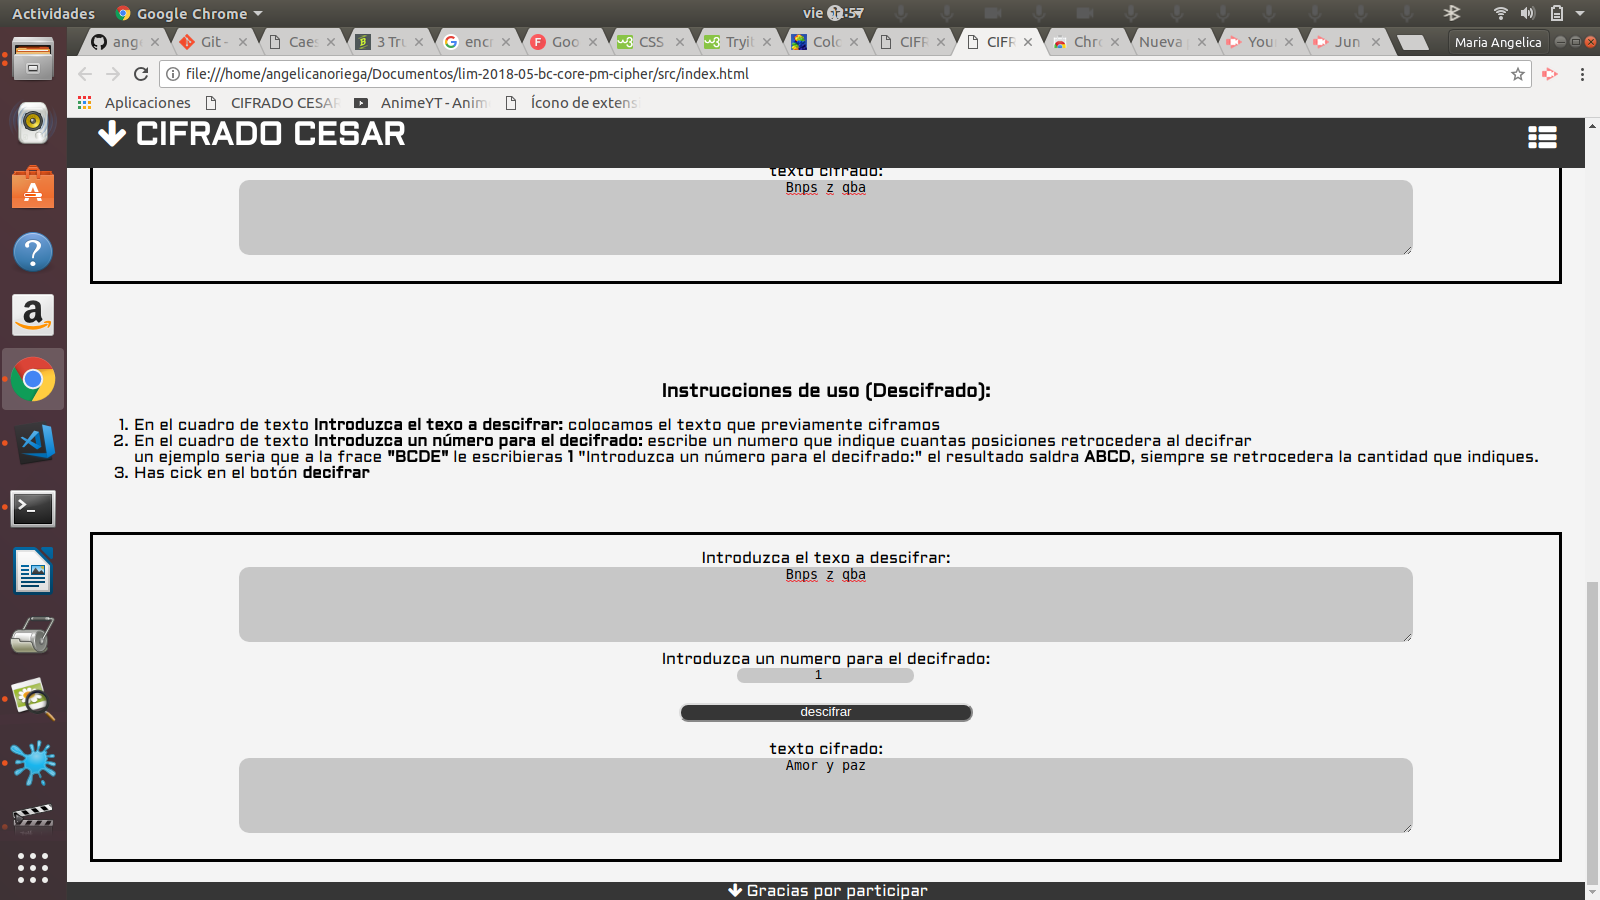
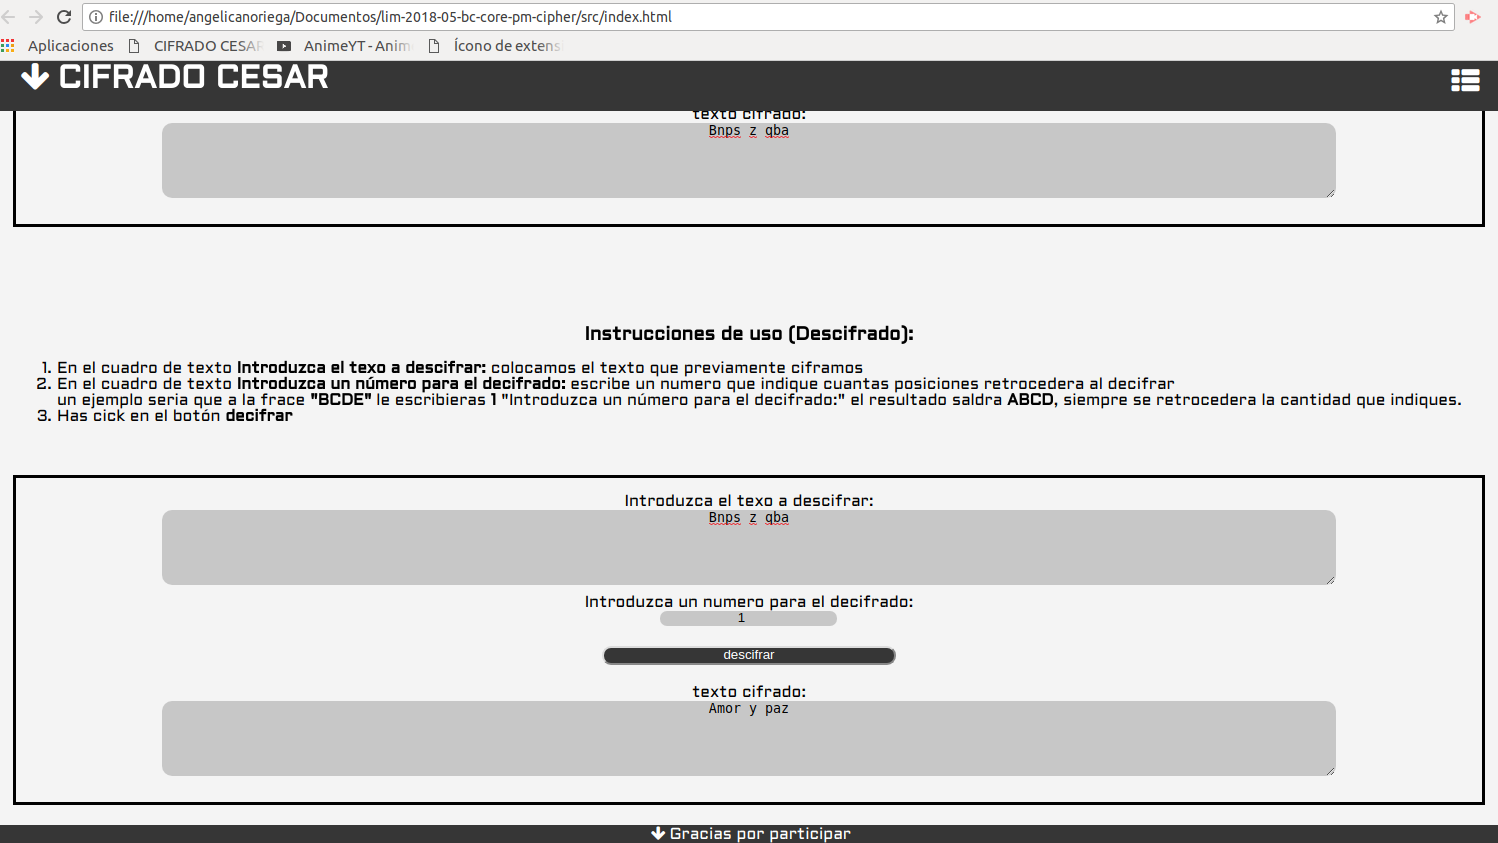
finalizad

diff --git a/src/css/style.css b/src/css/style.css
@@ -29,7 +29,7 @@ header {
     z-index: 100;
 }
 .contenedor {
-    width: 96%;
+    width: 90%;
 
     margin: auto;
 
@@ -49,20 +49,25 @@ section {
 width: 100%;
 margin-bottom: 100%,
 }
-.cuadro1, .cuadro2 {
-    width: 96%;
+.cuadro1 {
+    width: 90%;
     height:50% ;
     border:3px ;
     text-align: center;
     margin:auto;
     margin-top: 100px;
-
-}
-.cuadro1{
-    margin-top: 100px;
     margin-bottom: 100px;
 font-size: 20px;
     
+
+}
+.cuadro2{
+    width: 85%;
+    height:50% ;
+    border:3px ;
+    text-align: center;
+    margin:auto;
+    margin-top: 100px;
 
 }
 footer  {

diff --git a/src/css/introduccion.css b/src/css/introduccion.css
@@ -20,10 +20,11 @@
     text-align: center;
 }
 #Instrucciones .lista{
-    margin-left: 4%;
+   width: 90%;
     text-align: left;
 }
 #Instrucciones2 .lista{
-    margin-left: 4%;
+    
+    width: 90%;
     text-align: left;
 }

diff --git a/src/css/Cyd.css b/src/css/Cyd.css
@@ -1,5 +1,5 @@
 #Cyd .contenedor{
-    width: 96%;
+    width: 90%;
     height:50% ;
     border:3px solid #000;
     text-align: center;

diff --git a/src/css/imagen.css b/src/css/imagen.css
@@ -16,7 +16,7 @@
     color: #fff;
 }
 #imagen  h2{
-    font-size:350%;
+    font-size:300%;
         
 
 }
